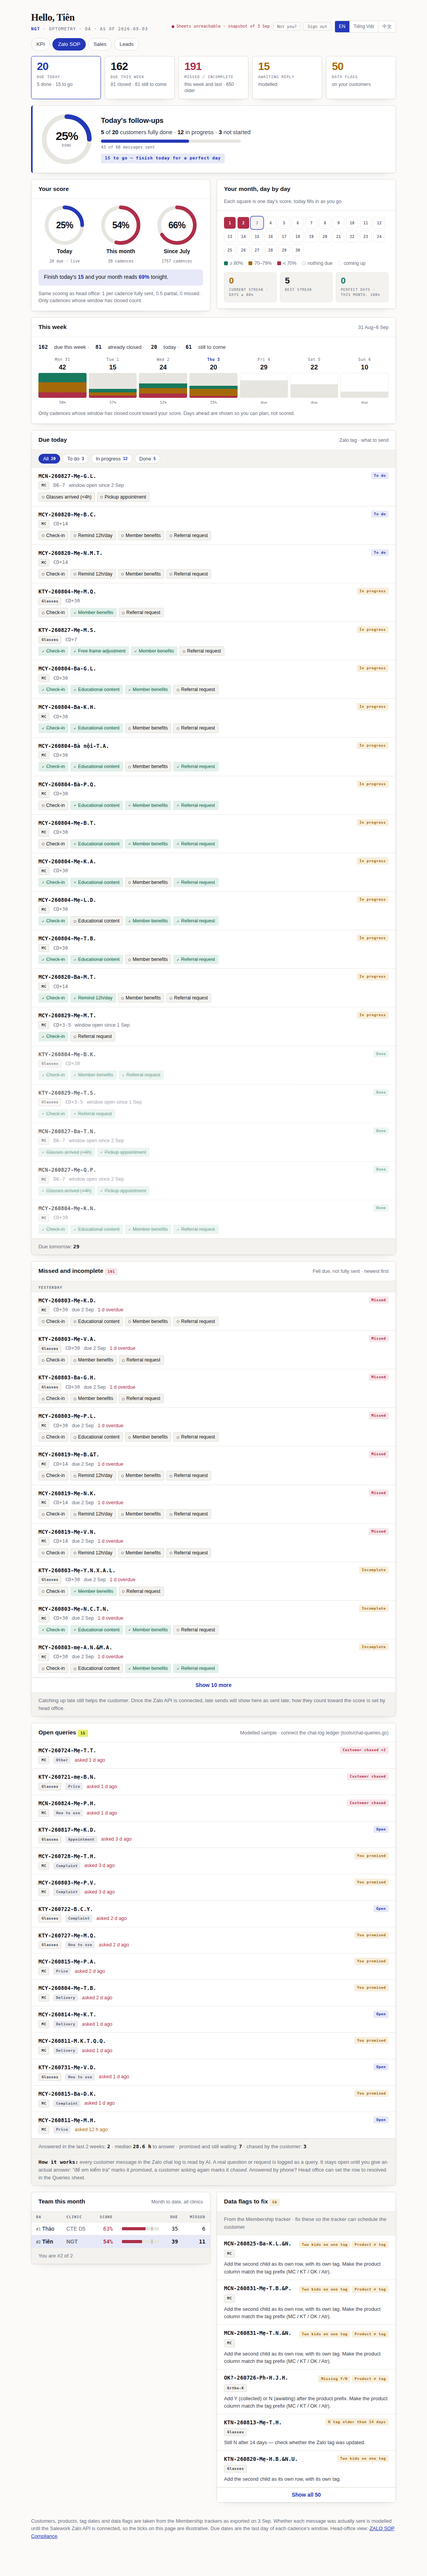
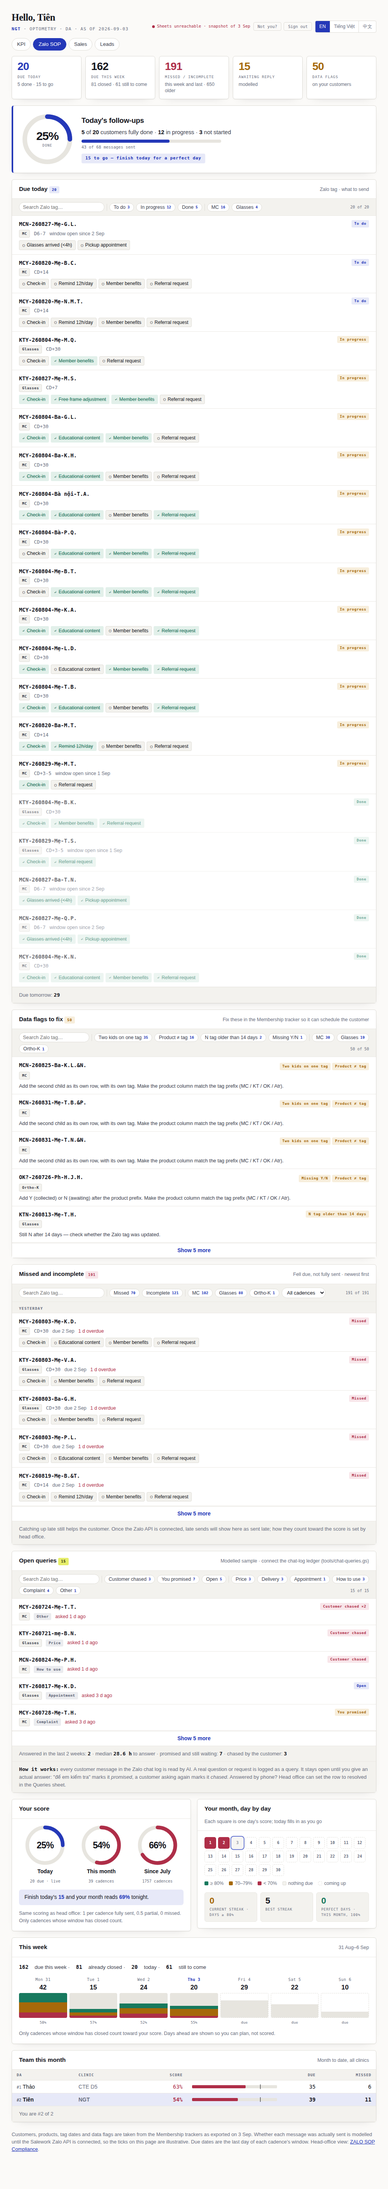
Zalo SOP: work first, every list filterable, short pages
Order is now today, data flags, missed, open queries, then score, days,
week and team. Every list has a search box and filter chips (status,
product, flag type, query category, cadence) and shows five rows at a
time except Due today, which stays full length.

Claude-Session: https://claude.ai/code/session_01Ge2WFuz76zL4ay7dE2uxgS

diff --git a/sop/index.html b/sop/index.html
@@ -35,7 +35,10 @@
      shows a modelled sample drawn per Zalo tag. */
   var QUERIES = { url: "", token: "change-me" };
   var queryRows = null;              /* live rows from the ledger, else null */
-  var ui = { todayFilter:"", missedShown:PAGE, missedOlder:false, flagsAll:false };
+  var SHORT = 5;
+  function freshUi(){ return { today:{q:"",status:"",prod:""}, flags:{q:"",type:"",prod:"",shown:SHORT},
+    missed:{q:"",status:"",prod:"",cad:"",shown:SHORT,older:false}, reply:{q:"",status:"",cat:"",shown:SHORT} }; }
+  var ui = freshUi();
 
   function store(k, v){
     try{
@@ -290,7 +293,7 @@
       wkNote:"Only cadences whose window has closed count toward your score. Days ahead are shown so you can plan, not scored.",
       wkDue:"due",
       /* today list */
-      pToday:"Due today", pTodayH:"Zalo tag · what to send", fAll:"All", fTodo:"To do", fProg:"In progress", fDone:"Done",
+      pToday:"Due today", pTodayH:"Zalo tag · what to send", fAll:"All", fSearch:"Search Zalo tag…", fShowing:"{a} of {b}", fAllCad:"All cadences", fTodo:"To do", fProg:"In progress", fDone:"Done",
       stDone:"Done", stProg:"In progress", stTodo:"To do",
       winOpen:"window open since {d}", tomorrow:"Due tomorrow: <b>{n}</b>", nothingLeft:"Nothing here.",
       /* missed */
@@ -306,7 +309,7 @@
       qStats:"Answered in the last 2 weeks: <b>{r}</b> · median <b>{m} h</b> to answer · promised and still waiting: <b>{p}</b> · chased by the customer: <b>{c}</b>",
       replyNote:"<b>How it works:</b> every customer message in the Zalo chat log is read by AI. A real question or request is logged as a query. It stays open until you give an actual answer: \"để em kiểm tra\" marks it <i>promised</i>, a customer asking again marks it <i>chased</i>. Answered by phone? Head office can set the row to resolved in the Queries sheet.",
       /* flags */
-      pFlags:"Data flags to fix", pFlagsH:"From the Membership tracker · fix these so the tracker can schedule the customer",
+      pFlags:"Data flags to fix", pFlagsH:"Fix these in the Membership tracker so it can schedule the customer",
       noneFlags:"No data flags on your customers.", showAll:"Show all {n}",
       fl:{twokids:"Two kids on one tag", prodmismatch:"Product ≠ tag", setY:"Collected — set Y",
           nstale:"N tag older than 14 days", missingYN:"Missing Y/N", badtag:"Unreadable tag"},
@@ -352,7 +355,7 @@
       wkSum:"<b>{n}</b> mốc tuần này · <b>{c}</b> đã qua hạn · <b>{t}</b> hôm nay · <b>{f}</b> sắp tới",
       wkNote:"Chỉ các mốc đã qua hạn mới tính vào điểm. Các ngày sắp tới hiển thị để bạn lên kế hoạch, chưa chấm.",
       wkDue:"mốc",
-      pToday:"Tới hạn hôm nay", pTodayH:"Tag Zalo · cần gửi gì", fAll:"Tất cả", fTodo:"Cần làm", fProg:"Đang làm", fDone:"Xong",
+      pToday:"Tới hạn hôm nay", pTodayH:"Tag Zalo · cần gửi gì", fAll:"Tất cả", fSearch:"Tìm tag Zalo…", fShowing:"{a} / {b}", fAllCad:"Tất cả các mốc", fTodo:"Cần làm", fProg:"Đang làm", fDone:"Xong",
       stDone:"Xong", stProg:"Đang làm", stTodo:"Cần làm",
       winOpen:"mở từ {d}", tomorrow:"Tới hạn ngày mai: <b>{n}</b>", nothingLeft:"Không có gì ở đây.",
       pMissed:"Bỏ sót và chưa đủ", pMissedH:"Đã qua hạn, chưa gửi đủ · mới nhất trước",
@@ -410,7 +413,7 @@
       wkSum:"本周 <b>{n}</b> 个到期 · <b>{c}</b> 已过期 · <b>{t}</b> 今天 · <b>{f}</b> 即将到期",
       wkNote:"仅窗口已关闭的触点计入得分。未来几天仅供安排，不评分。",
       wkDue:"到期",
-      pToday:"今日到期", pTodayH:"Zalo 标签 · 需发送内容", fAll:"全部", fTodo:"待办", fProg:"进行中", fDone:"已完成",
+      pToday:"今日到期", pTodayH:"Zalo 标签 · 需发送内容", fAll:"全部", fSearch:"搜索 Zalo 标签…", fShowing:"{a} / {b}", fAllCad:"全部触点", fTodo:"待办", fProg:"进行中", fDone:"已完成",
       stDone:"已完成", stProg:"进行中", stTodo:"待办",
       winOpen:"自 {d} 起可发送", tomorrow:"明日到期：<b>{n}</b>", nothingLeft:"这里没有内容。",
       pMissed:"遗漏与未完成", pMissedH:"已到期、未全部发送 · 最新在前",
@@ -506,6 +509,99 @@
     }
     h += '</div>';
 
+    /* ---- work first: today, flags, missed, open queries ---- */
+    var prods = function(list, get){ var p = {}; list.forEach(function(x){ p[get(x)] = (p[get(x)]||0)+1; }); return PRODUCTS.filter(function(k){ return p[k]; }).map(function(k){ return [k, prodLabel(k), p[k]]; }); };
+    var qmatch = function(q, tag){ return !q || tag.toLowerCase().indexOf(q.trim().toLowerCase()) !== -1; };
+
+    /* today list: full length, filter by status / product / search */
+    var f = ui.today, todayRows = b.today.slice().sort(function(a,b2){ return a.pts - b2.pts || (a.c[6] < b2.c[6] ? -1 : 1); });
+    var cnt = { todo:0, prog:0, done:0 }; todayRows.forEach(function(x){ cnt[statusOf(x)]++; });
+    var shown = todayRows.filter(function(x){ return (!f.status || statusOf(x) === f.status) && (!f.prod || x.c[2] === f.prod) && qmatch(f.q, x.c[6]); });
+    h += '<div class="panel" id="today"><h3><span>'+esc(t.pToday)+' <span class="pill '+(b.today.length ? (perfect ? "p-ok" : "p-accent") : "p-inert")+'">'+b.today.length+'</span></span><span class="hint">'+esc(t.pTodayH)+'</span></h3>';
+    if(b.today.length){
+      h += fbar("today", f, { q:true, chips:[ {key:"status", items:[["todo", t.fTodo, cnt.todo], ["prog", t.fProg, cnt.prog], ["done", t.fDone, cnt.done]]},
+                                                {key:"prod", items:prods(todayRows, function(x){ return x.c[2]; })} ], count:[shown.length, todayRows.length] });
+      if(shown.length) shown.forEach(function(x){ h += taskRow(x); });
+      else h += '<div class="empty">'+esc(t.nothingLeft)+'</div>';
+    } else h += '<div class="empty">'+esc(t.hNone)+'</div>';
+    h += '<div class="tmrw">'+fill(t.tomorrow, {n:b.tomorrow.length})+'</div></div>';
+
+    /* data flags: high up, filter by type / product / search, short pages */
+    f = ui.flags;
+    var fl = b.flags.slice().sort(function(x,y){ return y[7].length - x[7].length || (x[6] < y[6] ? -1 : 1); });
+    var flCounts = {}; fl.forEach(function(c){ c[7].forEach(function(k){ flCounts[k] = (flCounts[k]||0)+1; }); });
+    var flRows = fl.filter(function(c){ return (!f.type || c[7].indexOf(f.type) !== -1) && (!f.prod || c[2] === f.prod) && qmatch(f.q, c[6]); });
+    h += '<div class="panel" id="flags"><h3><span>'+esc(t.pFlags)+' <span class="pill '+(fl.length?'p-warn':'p-ok')+'">'+fl.length+'</span></span><span class="hint">'+esc(t.pFlagsH)+'</span></h3>';
+    if(fl.length){
+      h += fbar("flags", f, { q:true, chips:[ {key:"type", items:FLAGS.filter(function(k){ return flCounts[k]; }).map(function(k){ return [k, t.fl[k], flCounts[k]]; })},
+                                                {key:"prod", items:prods(fl, function(c){ return c[2]; })} ], count:[flRows.length, fl.length] });
+      flRows.slice(0, f.shown).forEach(function(c){
+        h += '<div class="task"><div class="tag">'+esc(c[6])+'</div>'
+          + '<div class="st">'+c[7].map(function(k){ return '<span class="pill p-warn">'+esc(t.fl[k])+'</span>'; }).join(' ')+'</div>'
+          + '<div class="meta"><span class="pill p-prod">'+esc(prodLabel(c[2]))+'</span></div>'
+          + '<div class="items" style="font-size:.8rem;color:var(--ink-2)">'+c[7].map(function(k){ return esc(t.fx[k]); }).join(' ')+'</div></div>';
+      });
+      if(!flRows.length) h += '<div class="empty">'+esc(t.nothingLeft)+'</div>';
+      if(flRows.length > f.shown) h += more("flags", Math.min(SHORT, flRows.length - f.shown), t);
+    } else h += '<div class="empty">'+esc(t.noneFlags)+'</div>';
+    h += '</div>';
+
+    /* missed: this week and last by default, filter by status / product / cadence / search, short pages */
+    f = ui.missed;
+    var mBase = f.older ? b.missed : b.missedRecent;
+    var mCnt = { missed:0, incomplete:0 }; mBase.forEach(function(x){ mCnt[x.pts === 0 ? "missed" : "incomplete"]++; });
+    var cads = {}; mBase.forEach(function(x){ cads[STAGES[x.si]] = 1; });
+    var mList = mBase.filter(function(x){ return (!f.status || (x.pts === 0 ? "missed" : "incomplete") === f.status) && (!f.prod || x.c[2] === f.prod) && (!f.cad || STAGES[x.si] === f.cad) && qmatch(f.q, x.c[6]); });
+    h += '<div class="panel" id="missed"><h3><span>'+esc(t.pMissed)+' <span class="pill '+(b.missedRecent.length?'p-bad':'p-ok')+'">'+b.missedRecent.length+'</span></span>'
+      + '<span class="hint">'+esc(t.pMissedH)+'</span></h3>';
+    if(mBase.length){
+      h += fbar("missed", f, { q:true, chips:[ {key:"status", items:[["missed", t.stMissed, mCnt.missed], ["incomplete", t.stIncomplete, mCnt.incomplete]]},
+                                                {key:"prod", items:prods(mBase, function(x){ return x.c[2]; })} ],
+                               select:{key:"cad", label:t.fAllCad, items:STAGES.filter(function(k){ return cads[k]; }).map(function(k){ return [k, k]; })}, count:[mList.length, mBase.length] });
+      var grp = "";
+      mList.slice(0, f.shown).forEach(function(x){
+        var g2 = x.d === addDays(TODAY,-1) ? t.gYesterday : x.d >= b.mon ? t.gThisWeek : x.d >= b.lastMon ? t.gLastWeek : t.gOlder;
+        if(g2 !== grp){ grp = g2; h += '<div class="grp">'+esc(g2)+'</div>'; }
+        h += taskRow(x, {due:true});
+      });
+      if(!mList.length) h += '<div class="empty">'+esc(t.nothingLeft)+'</div>';
+      if(mList.length > f.shown) h += more("missed", Math.min(SHORT, mList.length - f.shown), t);
+      else if(!f.older && b.missedOlder.length) h += '<button class="more" data-older="1">'+esc(fill(t.showOlder, {n:b.missedOlder.length}))+'</button>';
+      h += '<div class="tmrw">'+esc(t.missedNote)+'</div>';
+    } else if(b.missedOlder.length){
+      h += '<div class="empty">'+esc(t.noneMissedRecent)+'</div><button class="more" data-older="1">'+esc(fill(t.showOlder, {n:b.missedOlder.length}))+'</button>';
+    } else h += '<div class="empty">'+esc(t.noneMissed)+'</div>';
+    h += '</div>';
+
+    /* open queries (ledger, or modelled sample): filter by status / category / search, short pages */
+    f = ui.reply;
+    var rq = b.replies, liveQ = !!queryRows;
+    var qCnt = { open:0, promised:0, chased:0 }, qCats = {}; rq.open.forEach(function(r){ qCnt[r.status]++; qCats[r.cat] = (qCats[r.cat]||0)+1; });
+    var qList = rq.open.filter(function(r){ return (!f.status || r.status === f.status) && (!f.cat || r.cat === f.cat) && qmatch(f.q, r.tag + " " + (r.query||"")); });
+    h += '<div class="panel" id="reply"><h3><span>'+esc(t.pReply)+' <span class="pill '+(liveQ ? (rq.open.length ? "p-warn" : "p-ok") : "p-mock")+'">'+rq.open.length+'</span></span>'
+      + '<span class="hint">'+esc(liveQ ? t.pReplyHLive : t.pReplyH)+'</span></h3>';
+    if(rq.open.length){
+      h += fbar("reply", f, { q:true, chips:[ {key:"status", items:[["chased", t.qChased, qCnt.chased], ["promised", t.qPromised, qCnt.promised], ["open", t.qOpen, qCnt.open]]},
+                                                {key:"cat", items:QCATS.filter(function(k){ return qCats[k]; }).map(function(k){ return [k, t.qCat[k] || k, qCats[k]]; })} ], count:[qList.length, rq.open.length] });
+      qList.slice(0, f.shown).forEach(function(r){
+        var st = r.status === "chased" ? '<span class="pill p-bad">'+esc(t.qChased)+(r.chased>1?' ×'+r.chased:'')+'</span>'
+               : r.status === "promised" ? '<span class="pill p-warn">'+esc(t.qPromised)+'</span>'
+               : '<span class="pill p-accent">'+esc(t.qOpen)+'</span>';
+        var age = r.hours >= 24 ? "color:var(--bad)" : r.hours >= 4 ? "color:var(--warn)" : "";
+        h += '<div class="task"><div class="tag">'+esc(r.tag)+'</div><div class="st">'+st+'</div>'
+          + '<div class="meta">'+(r.prod ? '<span class="pill p-prod">'+esc(prodLabel(r.prod))+'</span>' : '')
+          + '<span class="pill p-inert">'+esc(t.qCat[r.cat] || r.cat)+'</span>'
+          + '<span style="'+age+'">'+esc(fill(t.waiting, {t:waitText(r.hours)}))+'</span></div>'
+          + (r.query ? '<div class="items" style="font-size:.84rem;color:var(--ink-2)">'+esc(r.query)+'</div>' : '')+'</div>';
+      });
+      if(!qList.length) h += '<div class="empty">'+esc(t.nothingLeft)+'</div>';
+      if(qList.length > f.shown) h += more("reply", Math.min(SHORT, qList.length - f.shown), t);
+    } else h += '<div class="empty">'+esc(t.noneReply)+'</div>';
+    h += '<div class="tmrw">'+fill(t.qStats, {r:rq.resolved, m: rq.medianHours === null ? "—" : rq.medianHours, p:rq.promised, c:rq.chased})+'</div>';
+    h += '<div class="tmrw">'+t.replyNote+'</div></div>';
+
+    /* ---- then progress: score, days, week, team ---- */
+
     /* rings + day strip */
     var mA = agg(b.mtd), aA = agg(b.closed);
     var projPts = mA.pts + b.today.length, projDue = mA.due + b.today.length;
@@ -569,64 +665,6 @@
     }
     h += '</div><p style="margin:12px 0 0;font-size:.78rem;color:var(--muted)">'+esc(t.wkNote)+'</p></div></div>';
 
-    /* today list */
-    var todayRows = b.today.slice().sort(function(a,b2){ return a.pts - b2.pts || (a.c[6] < b2.c[6] ? -1 : 1); });
-    var cnt = { todo:0, prog:0, done:0 }; todayRows.forEach(function(x){ cnt[statusOf(x)]++; });
-    var shown = todayRows.filter(function(x){ return !ui.todayFilter || statusOf(x) === ui.todayFilter; });
-    h += '<div class="panel" id="today"><h3><span>'+esc(t.pToday)+'</span><span class="hint">'+esc(t.pTodayH)+'</span></h3>';
-    if(b.today.length){
-      h += '<div class="chips">'
-        + chip("", t.fAll, b.today.length) + chip("todo", t.fTodo, cnt.todo) + chip("prog", t.fProg, cnt.prog) + chip("done", t.fDone, cnt.done)
-        + '</div>';
-      if(shown.length) shown.forEach(function(x){ h += taskRow(x); });
-      else h += '<div class="empty">'+esc(t.nothingLeft)+'</div>';
-    } else {
-      h += '<div class="empty">'+esc(t.hNone)+'</div>';
-    }
-    h += '<div class="tmrw">'+fill(t.tomorrow, {n:b.tomorrow.length})+'</div></div>';
-
-    /* missed */
-    var mList = ui.missedOlder ? b.missed : b.missedRecent;
-    h += '<div class="panel" id="missed"><h3><span>'+esc(t.pMissed)+' <span class="pill '+(b.missedRecent.length?'p-bad':'p-ok')+'">'+b.missedRecent.length+'</span></span>'
-      + '<span class="hint">'+esc(t.pMissedH)+'</span></h3>';
-    if(mList.length){
-      var grp = "", view = mList.slice(0, ui.missedShown);
-      view.forEach(function(x){
-        var g2 = x.d === addDays(TODAY,-1) ? t.gYesterday : x.d >= b.mon ? t.gThisWeek : x.d >= b.lastMon ? t.gLastWeek : t.gOlder;
-        if(g2 !== grp){ grp = g2; h += '<div class="grp">'+esc(g2)+'</div>'; }
-        h += taskRow(x, {due:true});
-      });
-      if(mList.length > ui.missedShown)
-        h += '<button class="more" id="moreMissed">'+esc(fill(t.showMore, {n:Math.min(PAGE, mList.length - ui.missedShown)}))+'</button>';
-      else if(!ui.missedOlder && b.missedOlder.length)
-        h += '<button class="more" id="olderMissed">'+esc(fill(t.showOlder, {n:b.missedOlder.length}))+'</button>';
-      h += '<div class="tmrw">'+esc(t.missedNote)+'</div>';
-    } else if(b.missedOlder.length){
-      h += '<div class="empty">'+esc(t.noneMissedRecent)+'</div>'
-        + '<button class="more" id="olderMissed">'+esc(fill(t.showOlder, {n:b.missedOlder.length}))+'</button>';
-    } else h += '<div class="empty">'+esc(t.noneMissed)+'</div>';
-    h += '</div>';
-
-    /* open queries (ledger, or modelled sample) */
-    var rq = b.replies, liveQ = !!queryRows;
-    h += '<div class="panel" id="reply"><h3><span>'+esc(t.pReply)+' <span class="pill '+(liveQ ? (rq.open.length ? "p-warn" : "p-ok") : "p-mock")+'">'+rq.open.length+'</span></span>'
-      + '<span class="hint">'+esc(liveQ ? t.pReplyHLive : t.pReplyH)+'</span></h3>';
-    if(rq.open.length){
-      rq.open.forEach(function(r){
-        var st = r.status === "chased" ? '<span class="pill p-bad">'+esc(t.qChased)+(r.chased>1?' ×'+r.chased:'')+'</span>'
-               : r.status === "promised" ? '<span class="pill p-warn">'+esc(t.qPromised)+'</span>'
-               : '<span class="pill p-accent">'+esc(t.qOpen)+'</span>';
-        var age = r.hours >= 24 ? "color:var(--bad)" : r.hours >= 4 ? "color:var(--warn)" : "";
-        h += '<div class="task"><div class="tag">'+esc(r.tag)+'</div><div class="st">'+st+'</div>'
-          + '<div class="meta">'+(r.prod ? '<span class="pill p-prod">'+esc(prodLabel(r.prod))+'</span>' : '')
-          + '<span class="pill p-inert">'+esc(t.qCat[r.cat] || r.cat)+'</span>'
-          + '<span style="'+age+'">'+esc(fill(t.waiting, {t:waitText(r.hours)}))+'</span></div>'
-          + (r.query ? '<div class="items" style="font-size:.84rem;color:var(--ink-2)">'+esc(r.query)+'</div>' : '')+'</div>';
-      });
-    } else h += '<div class="empty">'+esc(t.noneReply)+'</div>';
-    h += '<div class="tmrw">'+fill(t.qStats, {r:rq.resolved, m: rq.medianHours === null ? "—" : rq.medianHours, p:rq.promised, c:rq.chased})+'</div>';
-    h += '<div class="tmrw">'+t.replyNote+'</div></div>';
-
     /* team */
     var team = {};
     instancesOf(CASES).forEach(function(x){
@@ -636,7 +674,6 @@
     var trows = Object.keys(team).map(function(k){ var g = agg(team[k]); g.k = k; return g; })
       .sort(function(p,q){ return q.score - p.score || q.due - p.due; });
     var myRank = 0; trows.forEach(function(r, i){ if(r.k === me) myRank = i+1; });
-    h += '<div class="grid2">';
     h += '<div class="panel" id="team"><h3><span>'+esc(t.pTeam)+'</span><span class="hint">'+esc(t.pTeamH)+'</span></h3>'
       + '<div style="overflow-x:auto"><table><thead><tr><th>'+esc(t.thDA)+'</th><th>'+esc(t.thClinic)+'</th><th class="n">'+esc(t.thScore)+'</th>'
       + '<th style="width:26%"></th><th class="n">'+esc(t.thDue)+'</th><th class="n">'+esc(t.thMissed)+'</th></tr></thead><tbody>';
@@ -651,23 +688,6 @@
     h += '</tbody></table></div>'
       + (myRank ? '<div class="tmrw">'+esc(fill(t.rank, {r:myRank, n:trows.length}))+'</div>' : '')+'</div>';
 
-    /* flags */
-    var fl = b.flags.slice().sort(function(x,y){ return y[7].length - x[7].length || (x[6] < y[6] ? -1 : 1); });
-    var flView = ui.flagsAll ? fl : fl.slice(0, 6);
-    h += '<div class="panel" id="flags"><h3><span>'+esc(t.pFlags)+' <span class="pill '+(fl.length?'p-warn':'p-ok')+'">'+fl.length+'</span></span></h3>';
-    if(fl.length){
-      h += '<div class="tmrw" style="border-top:0;border-bottom:1px solid var(--rule-2)">'+esc(t.pFlagsH)+'</div>';
-      flView.forEach(function(c){
-        h += '<div class="task"><div class="tag">'+esc(c[6])+'</div>'
-          + '<div class="st">'+c[7].map(function(f){ return '<span class="pill p-warn">'+esc(t.fl[f])+'</span>'; }).join(' ')+'</div>'
-          + '<div class="meta"><span class="pill p-prod">'+esc(prodLabel(c[2]))+'</span></div>'
-          + '<div class="items" style="font-size:.8rem;color:var(--ink-2)">'+c[7].map(function(f){ return esc(t.fx[f]); }).join(' ')+'</div></div>';
-      });
-      if(!ui.flagsAll && fl.length > flView.length)
-        h += '<button class="more" id="moreFlags">'+esc(fill(t.showAll, {n:fl.length}))+'</button>';
-    } else h += '<div class="empty">'+esc(t.noneFlags)+'</div>';
-    h += '</div>';
-    h += '</div>';
 
     /* footer */
     h += '<p class="foot">'+fill(t.foot, {src: feedState.mode === "live"
@@ -680,19 +700,41 @@
     return '<a class="stat '+cls+'" href="'+href+'" style="text-decoration:none"><span class="sn">'+n+'</span>'
       + '<span class="sl">'+esc(label)+'</span><span class="sx">'+esc(sub)+'</span></a>';
   }
-  function chip(k, label, n){
-    return '<button data-tf="'+k+'" aria-pressed="'+(ui.todayFilter===k)+'">'+esc(label)+' <span class="cn">'+n+'</span></button>';
-  }
-  function wire(){
-    document.querySelectorAll("[data-tf]").forEach(function(el){
-      el.onclick = function(){ ui.todayFilter = el.dataset.tf; render(); };
+  function fbar(id, f, o){
+    var t = T(), h = '<div class="fbar">';
+    if(o.q) h += '<input type="search" data-fq="'+id+'" placeholder="'+esc(t.fSearch)+'" value="'+esc(f.q)+'">';
+    (o.chips || []).forEach(function(g, gi){
+      if(!g.items.length) return;
+      if(gi || o.q) h += '<span class="sep"></span>';
+      g.items.forEach(function(it){
+        h += '<button data-fk="'+id+'" data-key="'+g.key+'" data-val="'+esc(it[0])+'" aria-pressed="'+(f[g.key]===it[0])+'">'+esc(it[1])+(it[2] !== undefined ? ' <span class="cn">'+it[2]+'</span>' : '')+'</button>';
+      });
     });
-    var mm = document.getElementById("moreMissed");
-    if(mm) mm.onclick = function(){ ui.missedShown += PAGE; render(); };
-    var mo = document.getElementById("olderMissed");
-    if(mo) mo.onclick = function(){ ui.missedOlder = true; render(); };
-    var mf = document.getElementById("moreFlags");
-    if(mf) mf.onclick = function(){ ui.flagsAll = true; render(); };
+    if(o.select && o.select.items.length){
+      h += '<select data-fs="'+id+'" data-key="'+o.select.key+'"><option value="">'+esc(o.select.label)+'</option>'
+        + o.select.items.map(function(it){ return '<option value="'+esc(it[0])+'"'+(f[o.select.key]===it[0]?' selected':'')+'>'+esc(it[1])+'</option>'; }).join('')+'</select>';
+    }
+    if(o.count) h += '<span class="cnt">'+esc(fill(t.fShowing, {a:o.count[0], b:o.count[1]}))+'</span>';
+    return h + '</div>';
+  }
+  function more(id, n, t){ return '<button class="more" data-more="'+id+'">'+esc(fill(t.showMore, {n:n}))+'</button>'; }
+  function wire(){
+    document.querySelectorAll("[data-fq]").forEach(function(el){
+      el.oninput = function(){ var f = ui[el.dataset.fq]; f.q = el.value; if(f.shown !== undefined) f.shown = SHORT; render();
+        var q = document.querySelector('[data-fq="'+el.dataset.fq+'"]'); if(q){ q.focus(); q.setSelectionRange(q.value.length, q.value.length); } };
+    });
+    document.querySelectorAll("[data-fk]").forEach(function(el){
+      el.onclick = function(){ var f = ui[el.dataset.fk], k = el.dataset.key; f[k] = (f[k] === el.dataset.val) ? "" : el.dataset.val; if(f.shown !== undefined) f.shown = SHORT; render(); };
+    });
+    document.querySelectorAll("[data-fs]").forEach(function(el){
+      el.onchange = function(){ var f = ui[el.dataset.fs]; f[el.dataset.key] = el.value; if(f.shown !== undefined) f.shown = SHORT; render(); };
+    });
+    document.querySelectorAll("[data-more]").forEach(function(el){
+      el.onclick = function(){ ui[el.dataset.more].shown += SHORT; render(); };
+    });
+    document.querySelectorAll("[data-older]").forEach(function(el){
+      el.onclick = function(){ ui.missed.older = true; ui.missed.shown = SHORT; render(); };
+    });
   }
 
   /* ================= shell ================= */

diff --git a/theme.css b/theme.css
@@ -254,3 +254,15 @@
   .nav a[aria-current="page"]{background:var(--accent);border-color:var(--accent);color:var(--surface)}
   .nav a:hover{border-color:var(--accent)}
   .back{font-size:.82rem;color:var(--accent);text-decoration:none}
+
+  /* list filter bar */
+  .fbar{display:flex;gap:6px;flex-wrap:wrap;align-items:center;padding:9px 18px;border-bottom:1px solid var(--rule-2);background:var(--surface-2)}
+  @media (max-width:640px){.fbar{padding:9px 14px}}
+  .fbar input[type=search],.fbar select{font-family:inherit;font-size:.8rem;padding:4px 9px;background:var(--surface);color:var(--ink);border:1px solid var(--rule);border-radius:20px}
+  .fbar input[type=search]{min-width:130px;flex:1 1 130px;max-width:220px}
+  .fbar button{background:var(--surface);border:1px solid var(--rule);border-radius:20px;padding:3px 10px;font-size:.78rem;color:var(--ink-2);display:flex;gap:5px;align-items:center}
+  .fbar button .cn{font-family:"IBM Plex Mono",monospace;font-size:9.5px;font-weight:600;color:var(--accent)}
+  .fbar button[aria-pressed="true"]{background:var(--accent);border-color:var(--accent);color:var(--surface)}
+  .fbar button[aria-pressed="true"] .cn{color:var(--surface)}
+  .fbar .sep{width:1px;height:18px;background:var(--rule)}
+  .fbar .cnt{margin-left:auto;font-family:"IBM Plex Mono",monospace;font-size:10px;color:var(--muted);white-space:nowrap}
